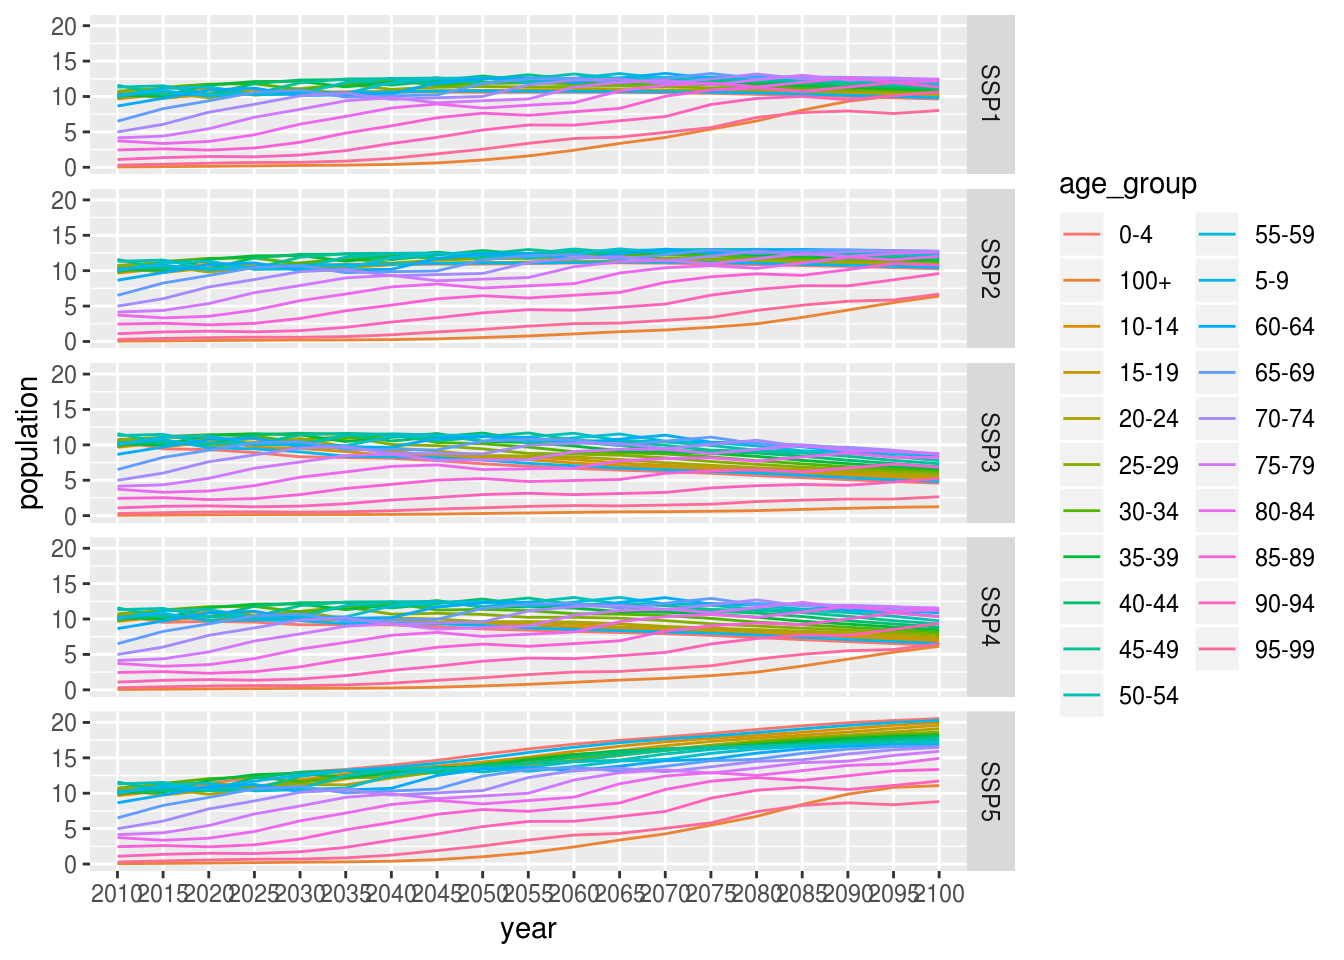
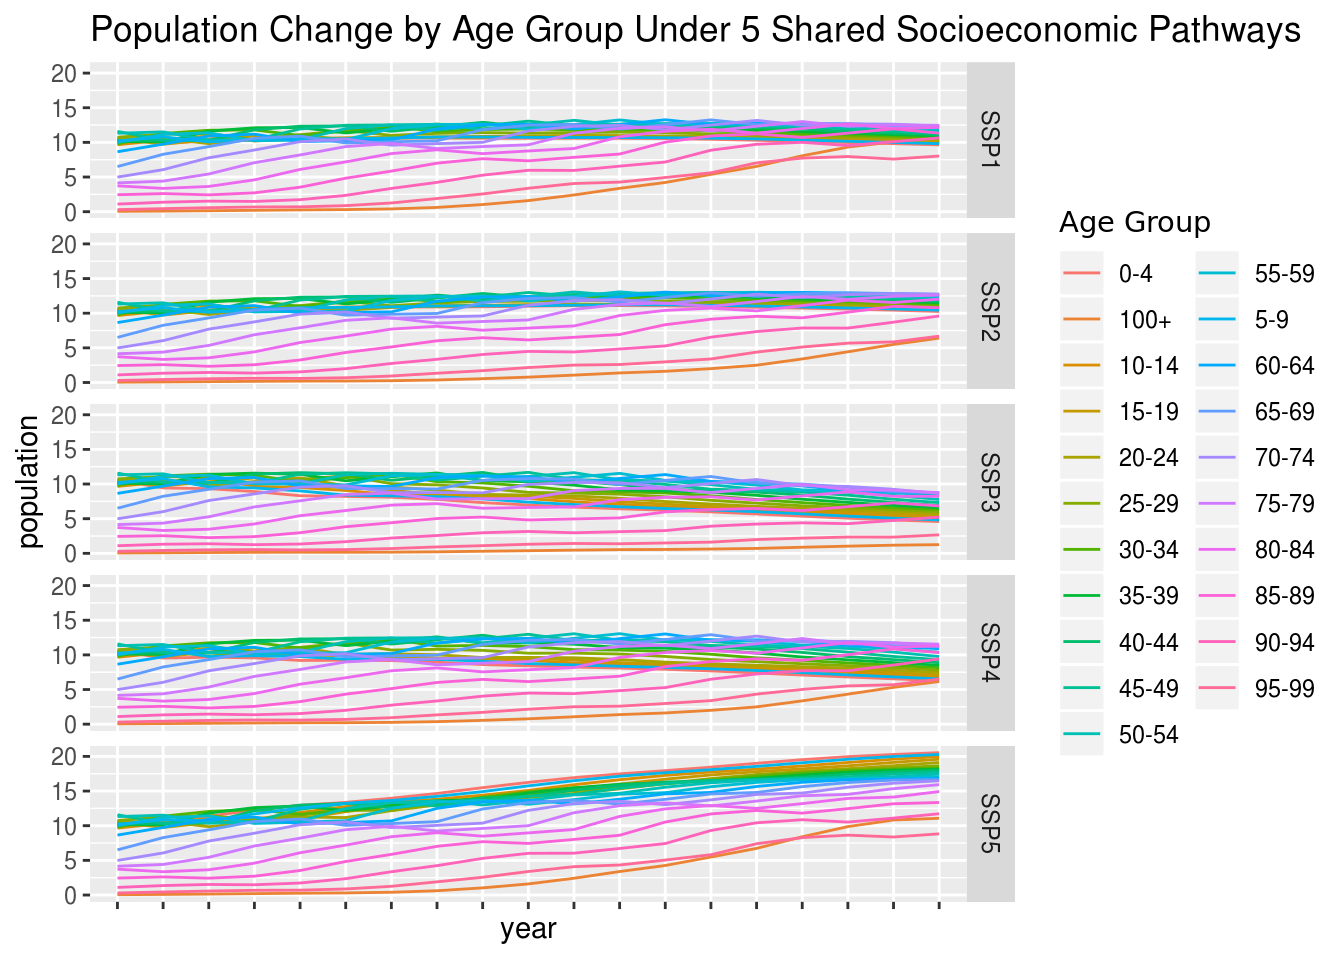
10.9.2

Changed region(s): [[0.0, 0.0, 0.9688, 0.9375], [0.7812, 0.2188, 1.0, 0.7812], [0.7812, 0.1875, 0.9062, 0.25]]

diff --git a/public/index.html b/public/index.html
@@ -130,8 +130,18 @@
                 <img src="img/climate_modeling_cover.png" alt="" />
             </span>
             <header class="major">
-                <h3><a href="/post/climate-modeling" class="link">Predicting Future Ozone Levels</a></h3>
-                <p>forecasting future ozone concentrations with complex simulations</p>
+                <h3><a href="/post/climate-modeling" class="link">Forecasting: Future Ozone Levels</a></h3>
+                <p>Predicting future ozone concentrations with complex simulations</p>
+            </header>
+        </article>
+        
+        <article>
+            <span class="image">
+                <img src="img/" alt="" />
+            </span>
+            <header class="major">
+                <h3><a href="/post/population-projections" class="link">Forecasting: Urban Population Change</a></h3>
+                <p>Predicting population growth under future scenarios</p>
             </header>
         </article>
         
@@ -192,16 +202,6 @@
             <header class="major">
                 <h3><a href="/post/personalviz" class="link">Visualizing Personal Use</a></h3>
                 <p>customizable illustrations of Bikeshare users ride histories</p>
-            </header>
-        </article>
-        
-        <article>
-            <span class="image">
-                <img src="img/" alt="" />
-            </span>
-            <header class="major">
-                <h3><a href="/post/population-projections" class="link">Urban Population Change</a></h3>
-                <p>forecasting population growth under future scenarios</p>
             </header>
         </article>
         

diff --git a/content/post/2018-10-09-population-projections.html b/content/post/2018-10-09-population-projections.html
@@ -185,7 +185,11 @@ head(agestr.country)</code></pre>
 <p>We can visualize the population dynamics for women for every age bracket under all five SSP scenarios using <code>facet_grid()</code>. Similar to the results from the urban population projections, SSP5 shows large population growth in most age brackets, while SSP3 and SSP4 shows a peak and then a decline for most age brackets.</p>
 <pre class="r"><code>agestr.country %&gt;% 
   filter(gender == &quot;Female&quot;) %&gt;% 
-  ggplot(., aes(x = year, y = population, group = age_group, colour = age_group))+
+  ggplot(., aes(x = year, y = population, group = age_group, colour = age_group)) +
+  theme(axis.text.x = element_blank(),
+        legend.title = element_text(&quot;Age Group&quot;))+
+  labs(title = &quot;Population Change by Age Group Under 5 Shared Socioeconomic Pathways&quot;,
+       color = &quot;Age Group&quot;)+
   geom_line() +
   facet_grid(vars(ssp))</code></pre>
 <p><img src="/post/2018-10-09-population-projections_files/figure-html/unnamed-chunk-5-1.png" width="672" style="display: block; margin: auto;" /></p>

diff --git a/public/post/population-projections/index.html b/public/post/population-projections/index.html
@@ -243,7 +243,11 @@ head(agestr.country)</code></pre>
 <p>We can visualize the population dynamics for women for every age bracket under all five SSP scenarios using <code>facet_grid()</code>. Similar to the results from the urban population projections, SSP5 shows large population growth in most age brackets, while SSP3 and SSP4 shows a peak and then a decline for most age brackets.</p>
 <pre class="r"><code>agestr.country %&gt;% 
   filter(gender == &quot;Female&quot;) %&gt;% 
-  ggplot(., aes(x = year, y = population, group = age_group, colour = age_group))+
+  ggplot(., aes(x = year, y = population, group = age_group, colour = age_group)) +
+  theme(axis.text.x = element_blank(),
+        legend.title = element_text(&quot;Age Group&quot;))+
+  labs(title = &quot;Population Change by Age Group Under 5 Shared Socioeconomic Pathways&quot;,
+       color = &quot;Age Group&quot;)+
   geom_line() +
   facet_grid(vars(ssp))</code></pre>
 <p><img src="/post/2018-10-09-population-projections_files/figure-html/unnamed-chunk-5-1.png" width="672" style="display: block; margin: auto;" /></p>
